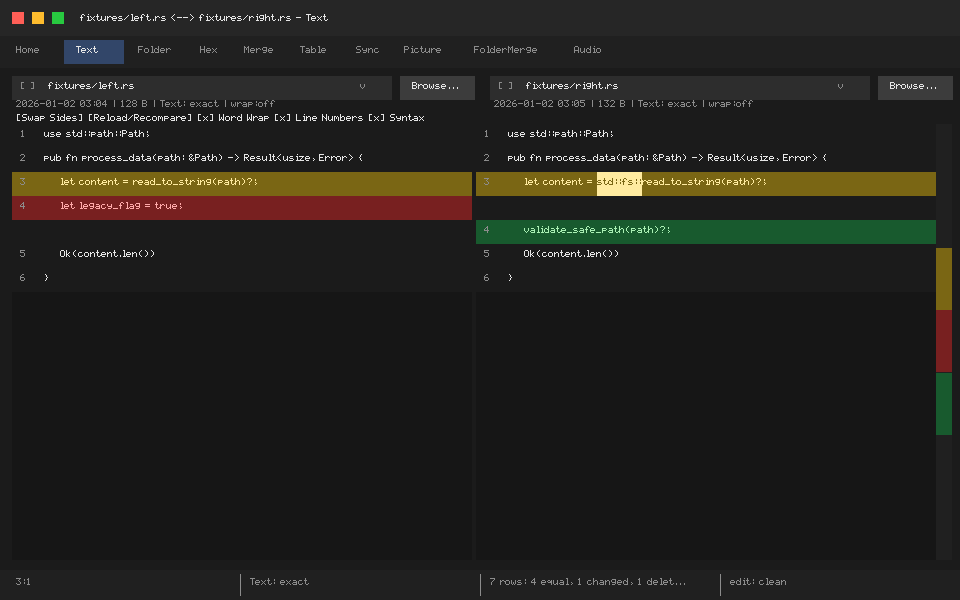
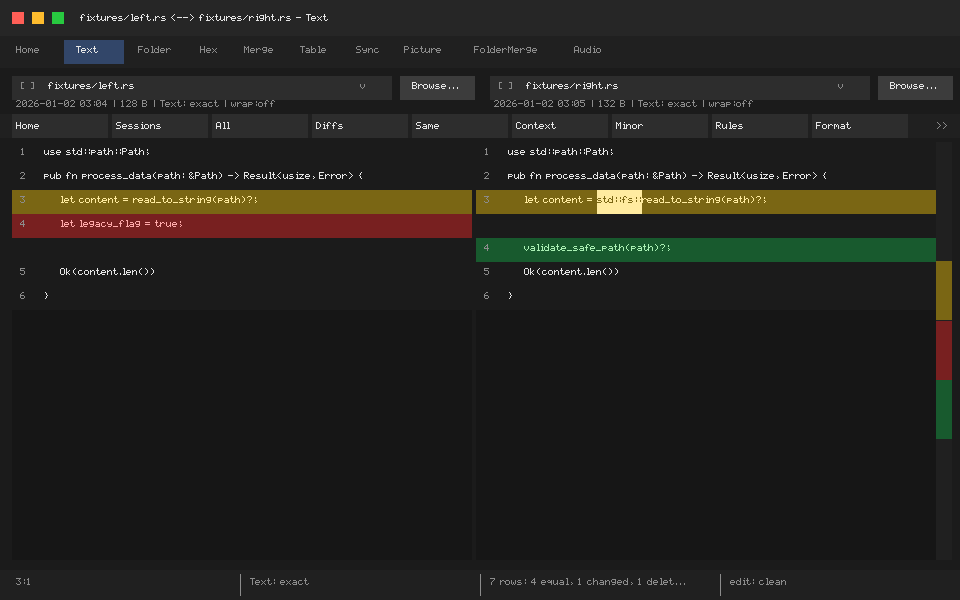
feat(gui): exq-home4 cards plus gaps

diff --git a/crates/gui/src/home.rs b/crates/gui/src/home.rs
@@ -4145,6 +4145,73 @@ mod tests {
 
     #[test]
     #[allow(clippy::assertions_on_constants)]
+    fn home4_wide960_card_gap_consistency_edge() {
+        // Edge fixture: `checks/gui-exq-home4/comparison/home-wide-960.json`.
+        // Geometry first: square 24 gaps from SPACE tokens, uniform row
+        // height from TypoRole chrome line-height, symmetric 12 margins
+        // at 720-960px wide. Typography second: theme steps reuse.
+        use crate::theme::{GEO_CARD_GAP, GEO_OUTER_MARGIN, SPACE_XL, TypoRole};
+
+        let fixture_raw =
+            include_str!("../../../checks/gui-exq-home4/comparison/home-wide-960.json");
+        assert!(fixture_raw.contains("\"card_gap_col\":24.0"));
+        assert!(fixture_raw.contains("\"card_gap_row\":24.0"));
+        assert!(fixture_raw.contains("\"margin_x\":12.0"));
+        assert!(fixture_raw.contains("\"content_w_960\":936.0"));
+        assert!(fixture_raw.contains("\"origin_x_960\":84.0"));
+
+        // Card gaps single-source from SPACE tokens (square + stable).
+        assert_eq!(super::HOME_GRID_COL_GAP_HOME4, SPACE_XL);
+        assert_eq!(super::HOME_GRID_ROW_GAP_HOME4, SPACE_XL);
+        assert_eq!(super::HOME_GRID_COL_GAP_HOME4, GEO_CARD_GAP);
+        assert_eq!(
+            super::HOME_GRID_ROW_GAP_HOME4,
+            super::HOME_GRID_COL_GAP_HOME4
+        );
+        assert!(super::home_grid_gap_home4_ok());
+        // Gap steps uniform: card x rhythm 240 + 24 = 264 every column.
+        assert_eq!(super::home_card_x_for_col_home4(0, 240.0), 0.0);
+        assert!((super::home_card_x_for_col_home4(1, 240.0) - 264.0).abs() < 0.001);
+        assert!((super::home_card_x_for_col_home4(2, 240.0) - 528.0).abs() < 0.001);
+        assert!(
+            (super::home_card_x_for_col_home4(2, 240.0)
+                - super::home_card_x_for_col_home4(1, 240.0)
+                - super::HOME_GRID_COL_GAP_HOME4
+                - 240.0)
+                .abs()
+                < 0.001
+        );
+
+        // Card row height from TypoRole chrome line-height (title 16.8).
+        assert!((TypoRole::HomeTitle.line_height_px() - 16.8).abs() < 0.001);
+        assert_eq!(
+            TypoRole::HomeTitle.line_height(),
+            crate::theme::TYPO_LINE_HEIGHT_CHROME
+        );
+        assert!((super::home_card_min_height() - 99.6).abs() < 0.01);
+
+        // Section padding symmetric at 720-960px wide (12 each side).
+        assert_eq!(super::HOME_CONTENT_MARGIN_X_HOME4, GEO_OUTER_MARGIN);
+        assert_eq!(super::HOME_CONTENT_MARGIN_X_HOME4, 12.0);
+        assert!((super::home_content_width_home4(960.0) - 936.0).abs() < 0.001);
+        assert!((super::home_content_width_home4(720.0) - 696.0).abs() < 0.001);
+        // Centered grid origins prove symmetry: (936-768)/2=84, (696-504)/2=96.
+        assert!((super::home_grid_origin_x_home4(936.0, 768.0) - 84.0).abs() < 0.001);
+        assert!((super::home_grid_origin_x_home4(696.0, 504.0) - 96.0).abs() < 0.001);
+        // Grid shape at both widths: 960 -> 3 cols x 3 rows (346.8),
+        // 720 -> 2 cols x 5 rows (594.0), rows uniform height.
+        assert_eq!(super::home_grid_rows_for_width_exq(9, 960.0), 3);
+        assert_eq!(super::home_grid_rows_for_width_exq(9, 720.0), 5);
+        assert!((super::home_grid_content_height_home4(9, 960.0) - 346.8).abs() < 0.01);
+        assert!((super::home_grid_content_height_home4(9, 720.0) - 594.0).abs() < 0.01);
+
+        // Typography second: theme steps reuse, koi naya size nahi.
+        assert!(crate::theme::typo_home4_steps_ok());
+        assert!(super::home_card_type_scale_exq_ok());
+    }
+
+    #[test]
+    #[allow(clippy::assertions_on_constants)]
     fn topchrome_toolbar_path_status_narrow_empty_edge() {
         // Edge fixture: `checks/gui-exq-topchrome/comparison/topchrome-narrow-empty.json`.
         // Geometry first: 10-button toolbar 996px, 960 avail 936 scroll, 700

diff --git a/checks/gui-exq-home4/round-1/exquisite-report.md b/checks/gui-exq-home4/round-1/exquisite-report.md
@@ -1,6 +1,6 @@
 # Exquisite report (round-1)
-- PNG: 10363 bytes (min 8192: ok), magic ok, distinct 256 (ok)
-- GEOMETRY: SPACE tokens ['LG', 'MD', 'SM', 'XL', 'XS'], margin/gap consts x253, Grid x14, row-h x98, width calls x67, gutter x752
-- TYPO: TypoRole x674, monospace x26, strong x41, .size ['14.0'], weights ['TYPO_WEIGHT_MEDIUM', 'TYPO_WEIGHT_REGULAR', 'TYPO_WEIGHT_SEMIBOLD'], line-heights ['TYPO_LINE_HEIGHT_BODY', 'TYPO_LINE_HEIGHT_CHROME', 'TYPO_LINE_HEIGHT_MONO', 'TYPO_LINE_HEIGHT_SOURCE'], spacing ['TYPO_LETTER_SPACING', 'extra_letter_spacing']
+- PNG: 10401 bytes (min 8192: ok), magic ok, distinct 256 (ok)
+- GEOMETRY: SPACE tokens ['LG', 'MD', 'SM', 'XL', 'XS'], margin/gap consts x528, Grid x16, row-h x269, width calls x71, gutter x1336
+- TYPO: TypoRole x1001, monospace x26, strong x45, .size ['14.0'], weights ['TYPO_WEIGHT_MEDIUM', 'TYPO_WEIGHT_REGULAR', 'TYPO_WEIGHT_SEMIBOLD'], line-heights ['TYPO_LINE_HEIGHT_BODY', 'TYPO_LINE_HEIGHT_CHROME', 'TYPO_LINE_HEIGHT_MONO', 'TYPO_LINE_HEIGHT_SOURCE'], spacing ['TYPO_LETTER_SPACING', 'extra_letter_spacing']
 - COLORS frozen check: Color32/Visuals touches 33 (info only, must not grow for geo-typo waves)
 RESULT: PASS
